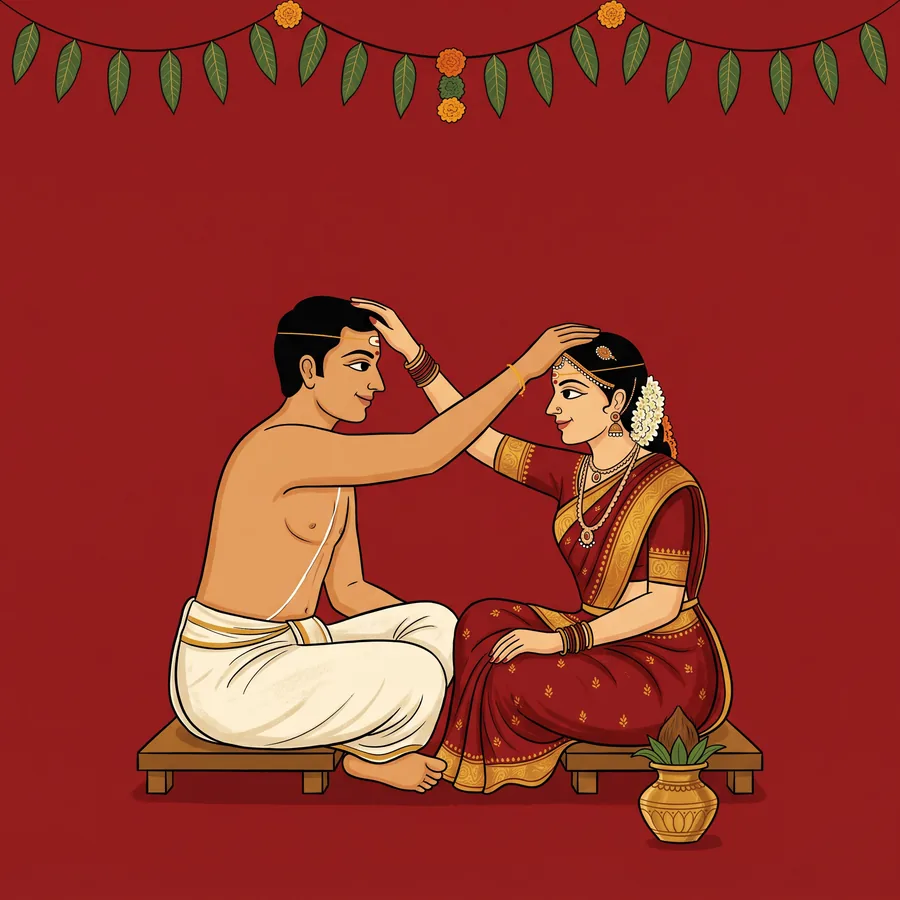
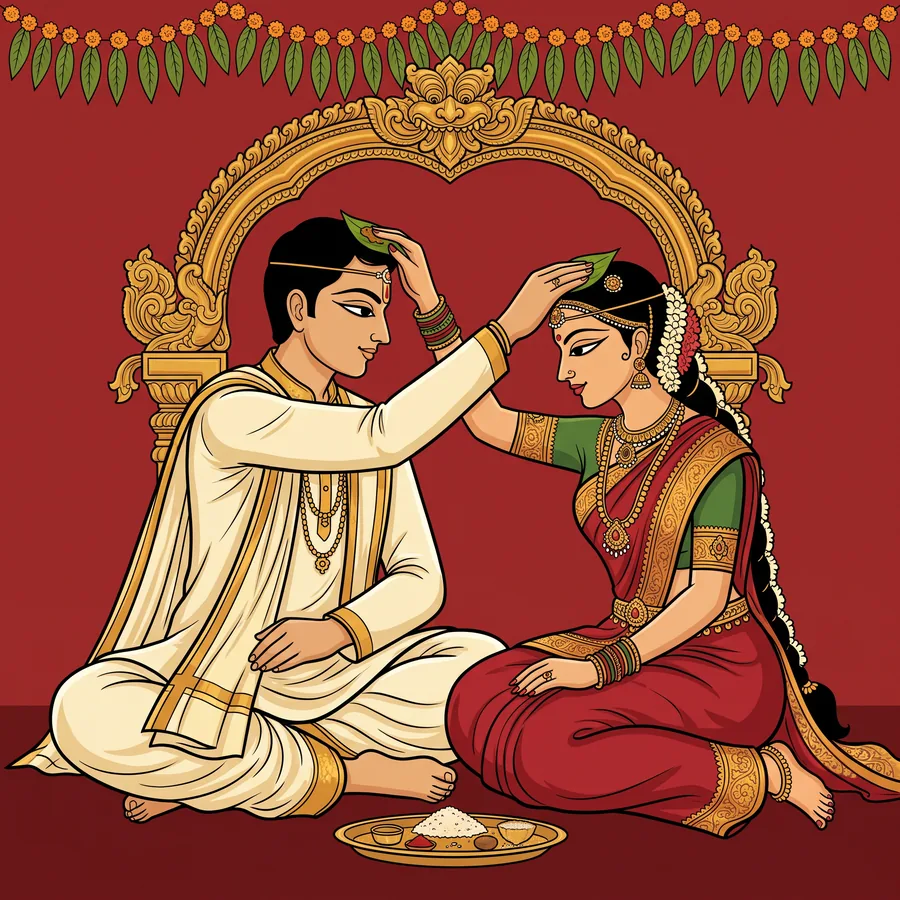
Client round: Our Two Celebrations screen over Vizag painting (no flight map), Shiva-Parvati hero emblem, Bapu-style wedding and reception art

diff --git a/index.html b/index.html
@@ -18,7 +18,7 @@
 <link rel="preconnect" href="https://fonts.googleapis.com">
 <link rel="preconnect" href="https://fonts.gstatic.com" crossorigin>
 <link href="https://fonts.googleapis.com/css2?family=Great+Vibes&family=Playfair+Display:wght@400;500&family=Ramabhadra&family=Prata&family=Marcellus&family=EB+Garamond:ital,wght@0,400;0,500;0,600;1,400;1,500&display=swap" rel="stylesheet">
-<link rel="stylesheet" href="styles.css?v=36">
+<link rel="stylesheet" href="styles.css?v=38">
 </head>
 <body class="locked">
 
@@ -61,7 +61,7 @@
   <div class="band band-top"></div>
   <canvas class="petals" id="petals"></canvas>
   <div class="hero-inner">
-    <div class="medal medal-hero" aria-hidden="true"><svg class="medal-ring"><use href="#medal"/></svg><svg class="medal-mono"><use href="#mono"/></svg><span class="bindu"></span></div>
+    <div class="medal-hero deity"><img src="assets/img/deity.webp?v=2" alt="Lord Shiva and Goddess Parvati" width="437" height="520"></div>
     <p class="eyebrow light h-fade">Shiva <span>·</span> Shakthi</p>
     <h1 class="names"><span class="nm n1">Sai</span><span class="amp">&amp;</span><span class="nm n2">Sushmitha</span></h1>
     <p class="tagline">Two cities, two souls, one infinite journey.</p>
@@ -71,29 +71,19 @@
   <div class="band band-bot"></div>
 </section>
 
-<!-- ================= THE JOURNEY: scroll down the painted map, Warangal -> Vizag ================= -->
-<section class="journey vjour" id="journey">
-  <div class="vj-head">
-    <p class="eyebrow light">The journey</p>
-    <h2 class="j-title vj-title"><span>Warangal</span> <i>to</i> <span>Vizag</span></h2>
-  </div>
-  <div class="vm" id="vm">
-    <div class="vm-world" id="vmWorld">
-      <img src="assets/img/vmap.webp" alt="Painted map: Warangal at the top, the Godavari river, and Visakhapatnam on the coast" width="1152" height="2048" loading="lazy">
-      <svg class="vm-svg" viewBox="0 0 1152 2048" preserveAspectRatio="none" aria-hidden="true">
-        <path id="vmGhost" class="vm-ghost" d="M630 362 C860 760 330 1240 535 1690"/>
-        <path id="vmTrail" class="vm-trail" d="M630 362 C860 760 330 1240 535 1690"/>
-      </svg>
-      <div class="vpin" id="vpW" data-x="630" data-y="362"><svg viewBox="0 0 40 52"><path d="M20 51C20 51 3 31 3 19a17 17 0 0 1 34 0c0 12-17 32-17 32z" fill="url(#goldGrad)" stroke="#5a2a0a" stroke-width="1.2"/><circle cx="20" cy="19" r="7" fill="#b3201a"/><circle cx="18" cy="17" r="2.2" fill="#ff8a6a"/></svg><span class="ripple"></span><p class="vlab vlab-r"><b>వరంగల్</b>Warangal<i>where his story begins</i></p></div>
-      <div class="vpin" id="vpV" data-x="535" data-y="1690"><svg viewBox="0 0 40 52"><path d="M20 51C20 51 3 31 3 19a17 17 0 0 1 34 0c0 12-17 32-17 32z" fill="url(#goldGrad)" stroke="#5a2a0a" stroke-width="1.2"/><circle cx="20" cy="19" r="7" fill="#b3201a"/><circle cx="18" cy="17" r="2.2" fill="#ff8a6a"/></svg><span class="ripple"></span><p class="vlab vlab-r"><b>విశాఖపట్నం</b>Visakhapatnam</p></div>
-      <figure class="vlm" data-x="430" data-y="545"><img src="assets/img/thoranam.webp" alt="Kakatiya Kala Thoranam, Warangal" width="420" height="414" loading="lazy"><figcaption>Kakatiya Kala Thoranam</figcaption></figure>
-      <div class="vcard" data-x="0" data-y="720"><p class="vc-k">December 2026</p><p class="vc-t">Flying to the coast</p></div>
-      <div class="vcard" data-x="0" data-y="1270"><p class="vc-k">13 December</p><p class="vc-t">The Wedding, by the sea</p></div>
-      <div class="vplane" id="vPlane"><svg viewBox="0 0 64 64"><path d="M60 32c0-2.2-2-3.6-4.4-3.6H40.5L26 7h-6l7.2 21.4H14.6L9.2 21H4.6l3.2 11-3.2 11h4.6l5.4-7.4h12.6L20 57h6l14.5-21.4h15.1C58 35.6 60 34.2 60 32z" fill="#fff6e2" stroke="#7a4a12" stroke-width="1.6" stroke-linejoin="round"/></svg></div>
+<!-- ================= OUR TWO CELEBRATIONS: one screen over the Vizag coast painting ================= -->
+<section class="cities" id="journey">
+  <img class="ct-bg" src="assets/img/vizag-bg.webp" alt="" width="1000" height="1792" loading="lazy">
+  <div class="ct-inner">
+    <p class="eyebrow ct-eye reveal">Vizag <span>&amp;</span> Hanamkonda</p>
+    <h2 class="ct-title reveal">Our Two Celebrations</h2>
+    <p class="ct-line reveal">From the shores of Vizag to the heritage of Hanamkonda, join us as we begin our eternal journey of love.</p>
+    <div class="ct-pair reveal">
+      <a class="ct-city" href="#events"><span class="ct-k">The Wedding</span><b>Vizag</b><span class="ct-d">Sunday · 13 December 2026</span></a>
+      <span class="ct-sep" aria-hidden="true">∞</span>
+      <a class="ct-city" href="#events"><span class="ct-k">The Reception</span><b>Hanamkonda</b><span class="ct-d">Wednesday · 16 December 2026</span></a>
     </div>
-    <div class="vcompass" aria-hidden="true"><svg viewBox="0 0 60 60"><circle cx="30" cy="30" r="27" fill="rgba(250,240,215,.85)" stroke="#7a4a12" stroke-width="1.2"/><path d="M30 8 L35 30 L30 52 L25 30Z" fill="#7a4a12" opacity=".35" transform="rotate(90 30 30)"/><path d="M52 30 L30 25 L30 35Z" fill="#a51d17"/><text x="44" y="22" font-size="10" fill="#5a2a0a" font-family="serif">N</text></svg></div>
   </div>
-  <p class="vj-after">and home to Warangal for the <b>Reception</b>, 16 December</p>
 </section>
 
 <!-- ================= CELEBRATIONS ================= -->
@@ -104,7 +94,7 @@
 
   <article class="ev ev-main">
     <p class="ev-flag">The Wedding</p>
-    <figure class="ev-art ev-wedding"><div class="arch"><div class="fx" aria-hidden="true"><b class="pt p1"></b><b class="pt p2"></b><b class="pt p3"></b><b class="pt p4"></b><b class="pt p5"></b><b class="pt p6"></b><b class="pt p7"></b><b class="pt p1 x"></b><b class="pt p2 x"></b><b class="pt p3 x"></b><b class="pt p4 x"></b></div><img src="assets/img/wedding.webp?v=2" alt="Telugu wedding painting" loading="lazy" width="900" height="900" data-float></div></figure>
+    <figure class="ev-art ev-wedding"><div class="arch"><div class="fx" aria-hidden="true"><b class="pt p1"></b><b class="pt p2"></b><b class="pt p3"></b><b class="pt p4"></b><b class="pt p5"></b><b class="pt p6"></b><b class="pt p7"></b><b class="pt p1 x"></b><b class="pt p2 x"></b><b class="pt p3 x"></b><b class="pt p4 x"></b></div><img src="assets/img/wedding.webp?v=4" alt="Telugu wedding painting" loading="lazy" width="900" height="900" data-float></div></figure>
     <div class="ev-copy reveal" data-cal="wedding" data-title="Sai &amp; Sushmitha · Wedding (Muhurtham 8:21 PM)" data-loc="Chenna&#39;s Convention, Visakhapatnam" data-start="20261213T145100Z" data-end="20261213T180000Z" data-maps="Chenna&#39;s Convention, Visakhapatnam">
       <div class="ev-date"><span class="m">December</span><b>13</b><i>Sunday</i></div>
       <h3>Kalyanam</h3>
@@ -115,7 +105,7 @@
   </article>
 
   <article class="ev ev-flip">
-    <figure class="ev-art"><div class="arch"><img src="assets/img/reception.webp" alt="Reception painting" loading="lazy" width="900" height="900" data-float></div></figure>
+    <figure class="ev-art"><div class="arch"><img src="assets/img/reception.webp?v=3" alt="Reception painting" loading="lazy" width="900" height="900" data-float></div></figure>
     <div class="ev-copy reveal" data-cal="reception" data-title="Sai &amp; Sushmitha · Reception" data-loc="Kodam Convention, Warangal" data-start="20261216T053000Z" data-end="20261216T093000Z" data-maps="Kodam Convention, Warangal">
       <div class="ev-date"><span class="m">December</span><b>16</b><i>Wednesday</i></div>
       <h3>Reception</h3>
@@ -156,6 +146,6 @@
   <svg class="mb-on" viewBox="0 0 24 24" fill="none" stroke="currentColor" stroke-width="1.6"><path d="M9 18V6l10-2v12"/><circle cx="6.5" cy="18" r="2.5"/><circle cx="16.5" cy="16" r="2.5"/></svg>
   <span class="mb-bars"><i></i><i></i><i></i></span>
 </button>
-<script src="script.js?v=30"></script>
+<script src="script.js?v=31"></script>
 </body>
 </html>

diff --git a/styles.css b/styles.css
@@ -619,3 +619,28 @@ body.printed .telugu{opacity:.9!important}
 /* subtle scroll parallax uses the independent `translate` property so it never fights entrance animations */
 [data-par]{will-change:translate}
 .ev-wedding .arch img{transform:scale(1.1)}
+
+/* ===== Round 14: hero emblem + "Our Two Celebrations" single screen ===== */
+.deity{width:clamp(120px,30vw,190px);aspect-ratio:437/520;filter:drop-shadow(0 6px 18px rgba(0,0,0,.35)) drop-shadow(0 0 14px rgba(240,200,120,.18))}
+.deity img{width:100%;height:100%;display:block;object-fit:contain}
+.cities{position:relative;min-height:100vh;min-height:100svh;overflow:hidden;display:flex;justify-content:center;background:#8f2a1c;height:auto}
+.cities::before{display:none}
+.ct-bg{position:absolute;inset:0;width:100%;height:100%;object-fit:cover;object-position:50% 100%;max-width:none}
+.cities::after{content:"";position:absolute;inset:0;background:linear-gradient(180deg,rgba(60,8,10,.55) 0%,rgba(60,8,10,.18) 38%,transparent 55%);pointer-events:none}
+.ct-inner{position:relative;z-index:2;text-align:center;max-width:640px;padding:clamp(64px,11vh,120px) 22px 0;color:#fbf0d6}
+.ct-eye{color:#f6d79a}.ct-eye span{color:#ffd9a8;font-family:var(--f-num);font-style:italic;letter-spacing:0;text-transform:none}
+.ct-title{font-family:var(--f-script);font-weight:400;font-size:clamp(48px,12vw,88px);line-height:1.08;margin:.12em 0 .18em;
+  background:linear-gradient(175deg,#fff4d6 10%,#f3cf86 55%,#d9a24a 95%);-webkit-background-clip:text;background-clip:text;color:transparent;filter:drop-shadow(0 3px 10px rgba(60,10,0,.45));padding:0 .1em}
+.ct-line{font-family:var(--f-num);font-style:italic;font-size:clamp(18px,4.4vw,24px);line-height:1.45;color:#fff3dd;text-shadow:0 2px 10px rgba(60,10,0,.5);text-wrap:balance;max-width:28em;margin:0 auto}
+.ct-pair{display:flex;align-items:stretch;justify-content:center;gap:clamp(10px,3vw,26px);margin-top:clamp(22px,4vh,38px)}
+.ct-city{flex:1 1 0;max-width:240px;display:flex;flex-direction:column;align-items:center;gap:.25em;padding:.9em .7em 1em;border-radius:12px;text-decoration:none;
+  background:rgba(70,12,14,.42);border:1px solid rgba(246,215,154,.45);-webkit-backdrop-filter:blur(4px);backdrop-filter:blur(4px);color:#fbf0d6}
+.ct-k{font-family:var(--f-caps);font-size:11px;letter-spacing:.24em;text-transform:uppercase;color:#f6d79a}
+.ct-city b{font-family:var(--f-display);font-weight:400;font-size:clamp(22px,5.6vw,30px);line-height:1.15;color:#fff6e4}
+.ct-d{font-family:var(--f-num);font-style:italic;font-size:clamp(14px,3.6vw,17px);color:#fbe6c4;text-wrap:balance}
+.ct-sep{align-self:center;font-family:var(--f-num);font-size:clamp(26px,6vw,36px);color:#f6d79a;text-shadow:0 2px 8px rgba(60,10,0,.5)}
+@media (max-width:380px){.ct-pair{gap:8px}.ct-city{padding:.8em .5em .9em}}
+@media (max-height:520px) and (orientation:landscape){.ct-inner{padding-top:28px}.ct-title{font-size:44px}}
+@media (min-aspect-ratio:4/5){.ct-bg{object-position:50% 55%}.cities::after{background:linear-gradient(180deg,rgba(60,8,10,.5) 0%,rgba(60,8,10,.12) 45%,transparent 65%)}}
+/* Bapu-style paintings have no printed border: show nearly whole */
+.ev-art .arch img[src*="wedding"],.ev-art .arch img[src*="reception"]{transform:scale(1.04);object-position:50% 50%}
